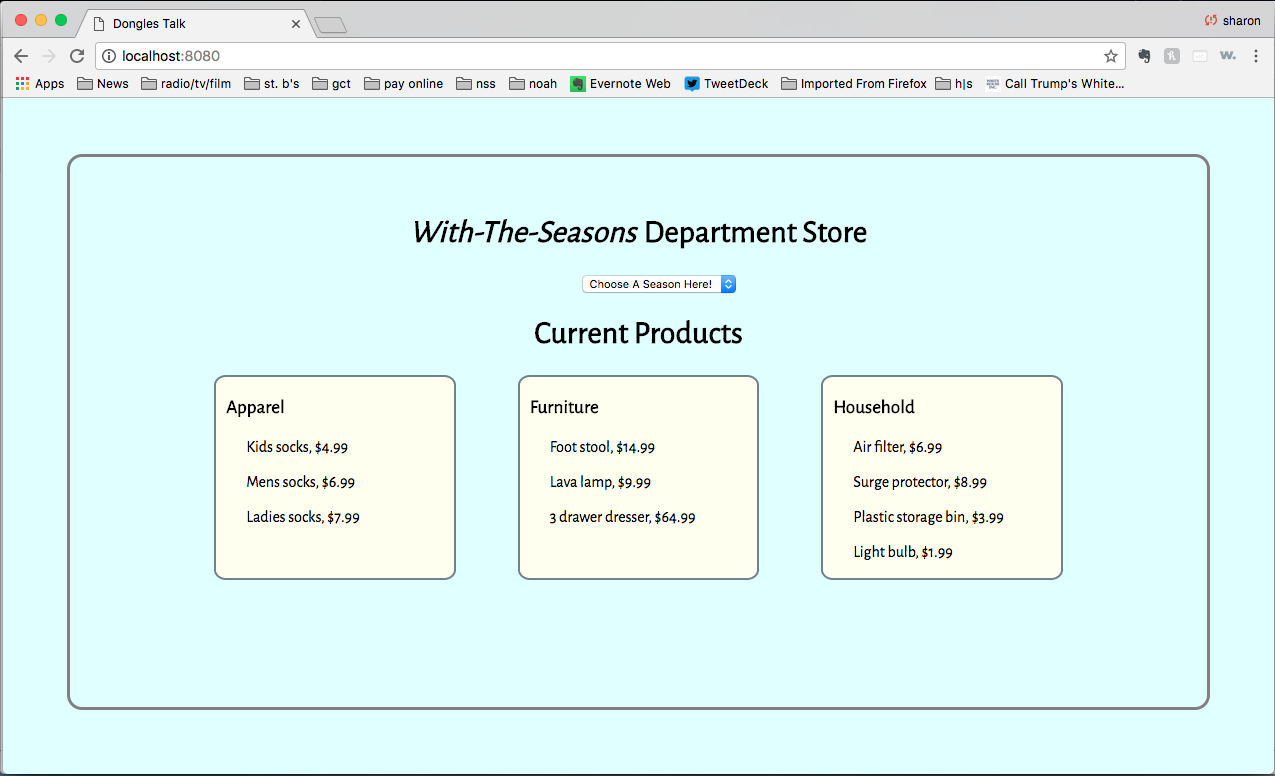
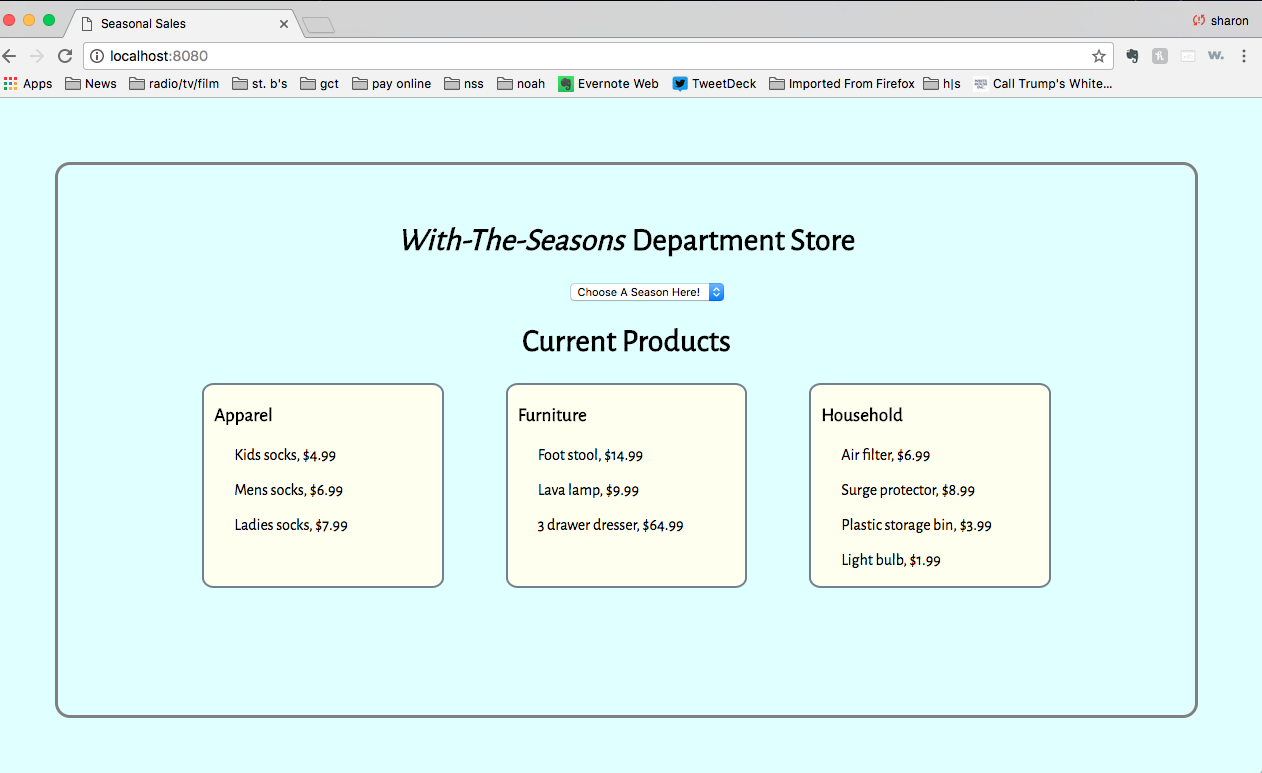
minor edits to files

diff --git a/index.html b/index.html
@@ -2,7 +2,7 @@
 <html lang="en">
 	<head>
 		<meta charset="UTF-8">
-		<title>Dongles Talk</title>
+		<title>Seasonal Sales</title>
 		<link href="https://fonts.googleapis.com/css?family=Alegreya+Sans" rel="stylesheet">
 		<link rel="stylesheet" type="text/css" href="sales.css">
 	</head>
